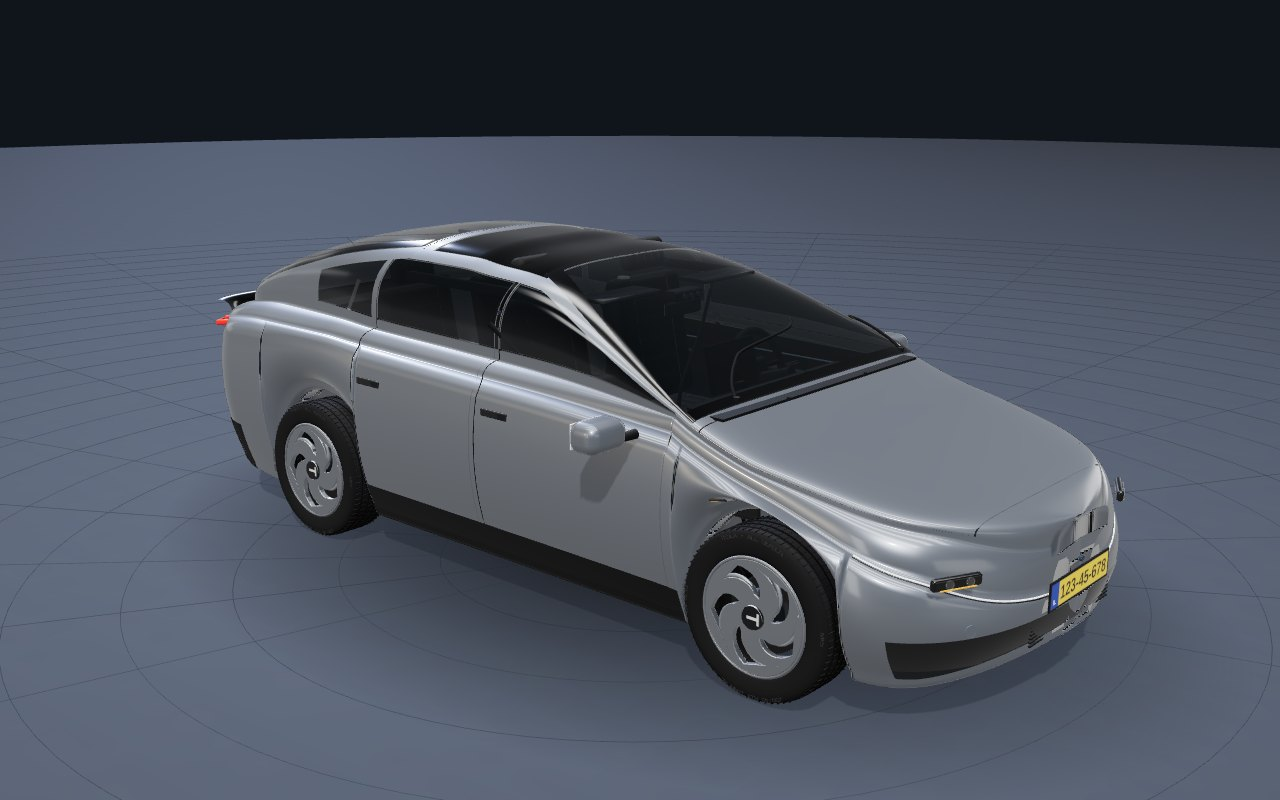
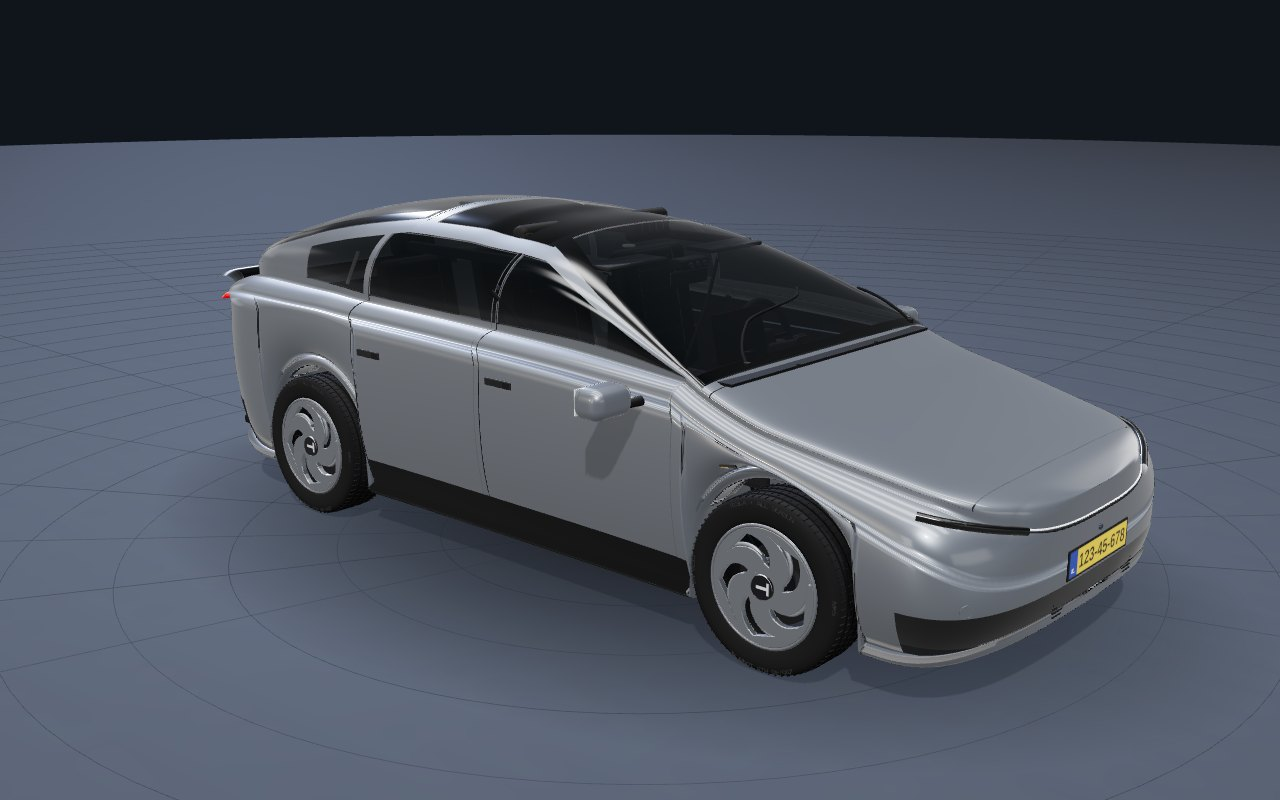
Rebuild Tesla Model Y nose and tail from front-view photo comparison
Rounded nose plan with dense tip columns, section insets that scale with
width (no fold at the nose tip), light bar and headlamp slits on section
lines under the hood lip, tapered tail, upper tail lamps on the liftgate.

Claude-Session: https://claude.ai/code/session_012NcPAY27Xn3SsHkDeQL88v

Changed region(s): [[0.1562, 0.2188, 0.9062, 0.9062], [0.0, 0.1562, 0.0625, 0.1875]]

diff --git a/daily-3d-library/models/003-tesla-model-y/index.html b/daily-3d-library/models/003-tesla-model-y/index.html
@@ -752,11 +752,15 @@ window.L3D_MODEL = {
       };
     };
     // plan view: rounded nose and tail (real corners sit ~0.26 m behind the tip at |z| = 0.6)
+    const NOSE = 0.42, NOSE_P = 3.2;
     const W = (x) => {
-      const rf = 0.6, rr = 0.30;
-      if (x > XF - rf) { const u = clamp((x - (XF - rf)) / rf); return HW * Math.pow(Math.max(0, 1 - Math.pow(u, 2.4)), 1 / 2.4); }
-      if (x < XR + rr) { const d = XR + rr - x; return HW - rr + Math.sqrt(Math.max(0, rr * rr - d * d)); }
-      return HW;
+      const rr = 0.5;
+      const haunch = 0.022 * (Math.exp(-Math.pow((x - AXR) / 0.55, 2)) + 0.6 * Math.exp(-Math.pow((x - AXF) / 0.5, 2)));
+      let w = HW;
+      // front: rounded plan (superellipse over the last 0.42 m; corners ~0.15 m behind the tip, measured on top/front photos)
+      if (x > XF - NOSE) { const u = clamp((x - (XF - NOSE)) / NOSE); w = HW * Math.pow(Math.max(0, 1 - Math.pow(u, NOSE_P)), 1 / NOSE_P); }
+      else if (x < XR + rr) { const u = clamp((XR + rr - x) / rr); w = HW - (HW - 0.68) * Math.pow(u, 2.6); }
+      return w + haunch * (w / HW);
     };
     // centre-line top: hood → windshield → roof → fastback → spoiler
     const YT = table([[XR, 1.11], [-2.36, 1.13], [-2.28, 1.23], [-2.10, 1.35], [-1.92, 1.426], [-1.745, 1.48], [-1.565, 1.53], [-1.307, 1.565], [-1.052, 1.58], [-0.801, 1.587], [-0.553, 1.586], [-0.37, 1.565], [-0.13, 1.545], [0.11, 1.50], [0.34, 1.42], [0.57, 1.32], [0.82, 1.2], [1.06, 1.08], [1.32, 0.99], [1.54, 0.945], [1.76, 0.9], [1.98, 0.855], [2.19, 0.81], [XF, 0.75]]);
@@ -778,14 +782,14 @@ window.L3D_MODEL = {
     const sec = (x, v) => {
       const s = v < 0 ? -1 : 1, a = Math.min(1, Math.abs(v));
       const w = W(x), yb = Yb(x), hh = Math.max(0.004, Yt(x) - yb), y0 = Y0(x), ya = YA(x);
-      const nf = smooth(1.3, XF, x), k = clamp(hh / 0.5), wg = w - lerp(0.09, 0.2, k) - 0.12 * nf - 0.14 * smooth(-0.9, -2.3, x), n = lerp(5.5, 2.8, k), drop = 0.07 + 0.1 * nf, ws = w - 0.075, wi = Math.min(W_IN, Math.max(0, w - 0.17));
+      const nf = smooth(1.3, XF, x), k = clamp(hh / 0.5), wg = w - Math.min(lerp(0.12, 0.16, k) + 0.1 * nf + 0.1 * smooth(-0.9, -2.3, x), 0.3 * w), n = lerp(5.5, 2.1, k), drop = 0.07 + 0.1 * nf, fi = clamp(w / 0.35), ws = w - 0.03 * fi, wi = Math.min(W_IN, Math.max(0, w - 0.15 * fi));
       let y, z;
       const seg = (a0, a1) => (a - a0) / (a1 - a0);
       if (a <= LV.glass) { const t = (a / LV.glass) * PI / 2; z = wg * Math.pow(Math.sin(t), 2 / n); y = yb + hh * Math.pow(Math.cos(t), 2 / n); }
       else if (a <= LV.shoulder) { const t = seg(LV.glass, LV.shoulder) * PI / 2; z = wg + (ws - wg) * Math.sin(t); y = yb - drop * (1 - Math.cos(t)); }
-      else if (a <= LV.side) { const t = seg(LV.shoulder, LV.side); y = lerp(yb - drop, ya + 0.05, t); z = w - 0.075 * Math.pow(Math.abs(t - 0.45) / 0.55, 2) - 0.035 * t * t; }
-      else if (a <= LV.cornerB) { const t = seg(LV.side, LV.cornerB) * PI / 2; z = w - 0.11 - 0.05 * (1 - Math.cos(t)); y = ya + 0.05 - 0.05 * Math.sin(t); }
-      else if (a <= LV.well) { const t = seg(LV.cornerB, LV.well); z = lerp(w - 0.16, wi, t); y = ya; }
+      else if (a <= LV.side) { const t = seg(LV.shoulder, LV.side); y = lerp(yb - drop, ya + 0.05, t); z = w - fi * (0.03 + 0.045 * Math.pow(Math.abs(t - 0.4) / 0.6, 2.2) + 0.05 * Math.pow(t, 3)); }
+      else if (a <= LV.cornerB) { const t = seg(LV.side, LV.cornerB) * PI / 2; z = w - fi * (0.08 + 0.06 * (1 - Math.cos(t))); y = ya + 0.05 - 0.05 * Math.sin(t); }
+      else if (a <= LV.well) { const t = seg(LV.cornerB, LV.well); z = lerp(w - 0.14 * fi, wi, t); y = ya; }
       else if (a <= LV.wellIn) { const t = seg(LV.well, LV.wellIn); z = wi; y = lerp(ya, y0, t); }
       else { const t = seg(LV.wellIn, 1); z = lerp(wi, 0, t); y = y0; }
       return V3(x, y, s * z);
@@ -816,7 +820,8 @@ window.L3D_MODEL = {
     const vs = samples(-1, 1, arcStep, [...aBreaks, ...aBreaks.map((b) => -b), 0]);
     const xBreaks = [...FD, 0.88, ...RD, ...QG, ...FR, LG, COWL, WS_TOP, WS_TOP - 0.04, ROOF_END, ROOF_END + 0.05, BL_END, AXF - ARCH_R, AXF + ARCH_R, AXR - ARCH_R, AXR + ARCH_R];
     const xStep = (x) => (x > XF - 0.6 || x < XR + 0.32 ? 0.016 : Math.abs(x - AXF) < ARCH_R + 0.02 || Math.abs(x - AXR) < ARCH_R + 0.02 ? 0.022 : (x < COWL && x > WS_TOP) || (x < LG && x > BL_END) ? 0.012 : 0.04);
-    const xs = samples(XR, XF, xStep, xBreaks);
+    const noseBreaks = Array.from({ length: 30 }, (_, k) => { const z = (k + 0.5) / 30; return XF - NOSE + NOSE * Math.pow(1 - Math.pow(z, NOSE_P), 1 / NOSE_P); }).filter((x) => x > XF - 0.1);
+    const xs = samples(XR, XF, xStep, [...xBreaks, ...noseBreaks]);
     // sub-ranges of the shared grids, so every patch is cut on exactly the same lines as its hole
     const subX = (a, b) => { const lo = Math.min(a, b), hi = Math.max(a, b); return [lo, ...xs.filter((x) => x > lo + 1e-4 && x < hi - 1e-4), hi]; };
     const subV = (a, b) => { const lo = Math.min(a, b), hi = Math.max(a, b); return [lo, ...vs.filter((v) => v > lo + 1e-4 && v < hi - 1e-4), hi]; };
@@ -856,8 +861,8 @@ window.L3D_MODEL = {
       const fxz = (z) => { let lo = XF - 0.5, hi = XF; for (let i = 0; i < 30; i++) { const m = (lo + hi) / 2; if (W(m) > Math.abs(z)) lo = m; else hi = m; } return lo; };
       // wide black lower intake and lip: bands of the nose surface that follow constant heights
       for (const s2 of [1, -1]) {
-        mesh(band(XF - 0.34, XF - 0.001, (x) => s2 * vAtY(x, 0.42, 1), (x) => s2 * vAtY(x, 0.28, 1), { offset: 0.004 }), GLOSSBLK, { parent: fr, name: 'lower intake' });
-        mesh(band(XF - 0.34, XF - 0.001, (x) => s2 * vAtY(x, 0.28, 1), (x) => s2 * vAtY(x, 0.235, 1), { offset: 0.004 }), M.plastic(0x2a2c30, 0.5), { parent: fr, name: 'lower lip' });
+        mesh(band(XF - 0.34, XF, (x) => s2 * vAtY(x, 0.42, 1), (x) => s2 * vAtY(x, 0.28, 1), { offset: 0.004 }), GLOSSBLK, { parent: fr, name: 'lower intake' });
+        mesh(band(XF - 0.34, XF, (x) => s2 * vAtY(x, 0.28, 1), (x) => s2 * vAtY(x, 0.235, 1), { offset: 0.004 }), M.plastic(0x2a2c30, 0.5), { parent: fr, name: 'lower lip' });
       }
       instances(new THREE.BoxGeometry(0.01, 0.006, 0.7), M.plastic(0x050506, 0.6), Array.from({ length: 7 }, (_, i) => ({ pos: [fxz(0.35) - 0.006, 0.3 + i * 0.016, 0] })), { parent: fr });
       // rear diffuser + reflectors
@@ -1011,23 +1016,35 @@ window.L3D_MODEL = {
     {
       const lights = sys('lights');
       const bar = part(lights, { he: 'פס אור קדמי לרוחב החזית', en: 'Front full-width light bar', mat: 'נורות LED מתחת לעדשה', desc: 'פס אור דק שחוצה את כל החזית — סימן ההיכר של ג׳וניפר. משמש כאור יום ומשנה צבע לכתום כאיתות בקצוות.' });
-      const barPts = []; for (let i = 0; i <= 48; i++) { const sd = i < 24 ? -1 : 1, u = sd < 0 ? i / 24 : (48 - i) / 24, x = lerp(XF - 0.5, XF - 0.002, u); barPts.push(onBody(x, sd * vAtY(x, Yb(x) - 0.05 - 0.02 * u, 1), 0.003)); }
+      // point on the nose at lateral position z along a fixed section line v (bisection along x; |z| shrinks toward the tip)
+      const lineAt = (z, v, d = 0.003) => {
+        const sd = z < 0 ? -1 : 1, az = Math.abs(z); let lo = XF - 0.6, hi = XF;
+        for (let i = 0; i < 40; i++) { const m = (lo + hi) / 2; if (Math.abs(sec(m, sd * v).z) > az) lo = m; else hi = m; }
+        return onBody(lo, sd * v, d);
+      };
+      // DRL bar right under the hood lip, across the full width (the lip is where the hood rolls into the face)
+      const V_LIP = A_G + 0.003;
+      const barPts = []; for (let i = 0; i <= 64; i++) { const z = -0.6 + (i / 64) * 1.2; barPts.push(lineAt(z, V_LIP, 0.004)); }
       put(G.tube(barPts, 0.0045, 96, 6), L.drl, bar);
-      put(G.tube(barPts.map((p) => p.clone().add(V3(-0.004, -0.008, 0))), 0.006, 96, 5), GLOSSBLK, bar);
+      put(G.tube(barPts.map((p) => p.clone().add(V3(0, -0.01, 0))), 0.006, 96, 5), GLOSSBLK, bar);
       for (const s of [1, -1]) {
-        const z = s * 0.72, hx = frontX(z), hy = Yb(hx) - 0.085, ang = Math.atan2(-(frontX(z + 0.01 * s) - hx), 0.01) * -s;
-        const hl = part(lights, { he: `פנס ראשי ${sideHe(s)}`, en: `Headlamp (${sideEn(s)})`, mat: 'פוליקרבונט + מטריצת LED', desc: 'פנס צר ונסתר בפינת הפגוש, מתחת לקצה פס האור, עם עדשת הקרנה ומטריצת LED שמכבה אזורים כדי לא לסנוור נהגים ממול.' });
-        const g = new THREE.Group(); g.position.set(hx, hy, z); g.rotation.y = s * Math.atan2(W(hx - 0.02) - W(hx), 0.02) * 0 - s * 0.45; hl.add(g);
-        put(G.soft(0.03, 0.05, 0.22, { r: 0.015, seg: 4 }), GLOSSBLK, g, [-0.008, 0, 0]);
-        for (const dz of [-0.05, 0.04]) { put(G.cyl(0.018, 0.018, 0.014, 20, 'x'), M.clearLens(), g, [0.006, 0, dz]); put(G.cyl(0.013, 0.013, 0.01, 18, 'x'), L.head, g, [0.0, 0, dz]); }
-        put(new THREE.BoxGeometry(0.006, 0.005, 0.16), L.amber, g, [0.008, -0.02, 0]);
-        void ang;
+        const hl = part(lights, { he: `פנס ראשי ${sideHe(s)}`, en: `Headlamp (${sideEn(s)})`, mat: 'פוליקרבונט + מטריצת LED', desc: 'פנס צר ונסתר בפינת הפגוש, מתחת לקצה פס האור: חריץ שחור דק שיורד כלפי הפינה, ובתוכו עדשת הקרנה ומטריצת LED שמכבה אזורים כדי לא לסנוור נהגים ממול.' });
+        // dark slit that drops toward the outer corner (inner end 0.65 m, outer end 0.60 m)
+        const vSl = (t) => V_LIP + 0.005 + 0.025 * t * t;
+        const slit = []; for (let k = 0; k <= 12; k++) { const t = k / 12, z = s * lerp(0.52, 0.86, t); slit.push(lineAt(z, vSl(t), 0.006)); }
+        put(G.tube(slit, 0.017, 24, 8), GLOSSBLK, hl, null, null, { name: 'slit' });
+        put(G.tube(slit.slice(5), 0.004, 16, 5).translate(0, 0.006, 0), L.head, hl, null, null, { name: 'LED strip' });
+        for (const t of [0.72, 0.86]) { const p = lineAt(s * lerp(0.52, 0.86, t), vSl(t), 0.012); put(G.sphere(0.011, 12, 8), M.clearLens(), hl, p.toArray()); }
+        put(G.tube(slit.slice(2, 7).map((p) => p.clone().add(V3(0, -0.012, 0))), 0.003, 12, 5), L.amber, hl, null, null, { name: 'turn strip' });
         // tail lamp (body corner, C-shape) + reverse lamp
         const tz = s * 0.78, tl = part(lights, { he: `פנס אחורי ${sideHe(s)}`, en: `Tail lamp (${sideEn(s)})`, mat: 'אקריליק אדום + LED', desc: 'פנס אחורי בצורת C עם אור ״מרחף״ שנוצר מהשתקפות פנימית. משתלב בפס האחורי.' });
-        for (let k = 0; k < 3; k++) { const zz = s * (0.66 + k * 0.08); const x = rearX(zz); put(G.box(0.03, 0.045 - k * 0.008, 0.085, 0.01), L.tail, tl, [x + 0.006, 1.02 - k * 0.006, zz], [0, -s * (k * 0.35), 0]); }
-        put(G.box(0.02, 0.012, 0.22, 0.004), L.brake, tl, [rearX(s * 0.72) + 0.01, 0.99, s * 0.72], [0, -s * 0.3, 0]);
+        // upper lamp sits in the liftgate's outer corner, so it rides with the gate
+        const tu = part(lights, { he: `פנס אחורי עליון ${sideHe(s)}`, en: `Upper tail lamp (${sideEn(s)})`, mat: 'אקריליק אדום + LED', desc: 'החלק העליון של הפנס האחורי, בפינת הדלת האחורית מתחת לספוילר. נפתח יחד עם הדלת, ולכן גם כשהיא פתוחה רואים את הפנסים הנמוכים בפגוש.' });
+        ctx.gate.add(tu); tu.userData.sysOverride = 'lights'; tu.position.set(-ctx.gate.position.x, -ctx.gate.position.y, 0);
+        for (let k = 0; k < 3; k++) { const zz = s * (0.6 + k * 0.07); const x = rearX(zz); put(G.box(0.03, 0.045 - k * 0.008, 0.085, 0.01), L.tail, tu, [x + 0.006, 1.02 - k * 0.006, zz], [0, -s * (k * 0.35), 0]); }
+        put(G.box(0.02, 0.012, 0.22, 0.004), L.brake, tu, [rearX(s * 0.66) + 0.01, 0.99, s * 0.66], [0, -s * 0.3, 0]);
         put(G.box(0.02, 0.035, 0.1, 0.01), L.rev, tl, [XR + 0.004, 0.47, s * 0.58]);
-        put(G.box(0.012, 0.02, 0.1, 0.006), M.lens(0xb01010, 0.8), tl, [XR + 0.004, 0.36, s * 0.7]);
+        put(G.box(0.012, 0.02, 0.1, 0.006), M.lens(0xb01010, 0.8), tl, [rearX(s * 0.6) + 0.004, 0.36, s * 0.6]);
       }
       // rear light bar on the liftgate (rides with the gate)
       const rb = part(lights, { he: 'פס אור אחורי', en: 'Rear light bar', mat: 'אקריליק אדום + LED', desc: 'פס אדום דק לרוחב הדלת האחורית שמחבר בין שני הפנסים.' });

diff --git a/daily-3d-library/models/003-tesla-model-y/model.js b/daily-3d-library/models/003-tesla-model-y/model.js
@@ -49,11 +49,15 @@ window.L3D_MODEL = {
       };
     };
     // plan view: rounded nose and tail (real corners sit ~0.26 m behind the tip at |z| = 0.6)
+    const NOSE = 0.42, NOSE_P = 3.2;
     const W = (x) => {
-      const rf = 0.6, rr = 0.30;
-      if (x > XF - rf) { const u = clamp((x - (XF - rf)) / rf); return HW * Math.pow(Math.max(0, 1 - Math.pow(u, 2.4)), 1 / 2.4); }
-      if (x < XR + rr) { const d = XR + rr - x; return HW - rr + Math.sqrt(Math.max(0, rr * rr - d * d)); }
-      return HW;
+      const rr = 0.5;
+      const haunch = 0.022 * (Math.exp(-Math.pow((x - AXR) / 0.55, 2)) + 0.6 * Math.exp(-Math.pow((x - AXF) / 0.5, 2)));
+      let w = HW;
+      // front: rounded plan (superellipse over the last 0.42 m; corners ~0.15 m behind the tip, measured on top/front photos)
+      if (x > XF - NOSE) { const u = clamp((x - (XF - NOSE)) / NOSE); w = HW * Math.pow(Math.max(0, 1 - Math.pow(u, NOSE_P)), 1 / NOSE_P); }
+      else if (x < XR + rr) { const u = clamp((XR + rr - x) / rr); w = HW - (HW - 0.68) * Math.pow(u, 2.6); }
+      return w + haunch * (w / HW);
     };
     // centre-line top: hood → windshield → roof → fastback → spoiler
     const YT = table([[XR, 1.11], [-2.36, 1.13], [-2.28, 1.23], [-2.10, 1.35], [-1.92, 1.426], [-1.745, 1.48], [-1.565, 1.53], [-1.307, 1.565], [-1.052, 1.58], [-0.801, 1.587], [-0.553, 1.586], [-0.37, 1.565], [-0.13, 1.545], [0.11, 1.50], [0.34, 1.42], [0.57, 1.32], [0.82, 1.2], [1.06, 1.08], [1.32, 0.99], [1.54, 0.945], [1.76, 0.9], [1.98, 0.855], [2.19, 0.81], [XF, 0.75]]);
@@ -75,14 +79,14 @@ window.L3D_MODEL = {
     const sec = (x, v) => {
       const s = v < 0 ? -1 : 1, a = Math.min(1, Math.abs(v));
       const w = W(x), yb = Yb(x), hh = Math.max(0.004, Yt(x) - yb), y0 = Y0(x), ya = YA(x);
-      const nf = smooth(1.3, XF, x), k = clamp(hh / 0.5), wg = w - lerp(0.09, 0.2, k) - 0.12 * nf - 0.14 * smooth(-0.9, -2.3, x), n = lerp(5.5, 2.8, k), drop = 0.07 + 0.1 * nf, ws = w - 0.075, wi = Math.min(W_IN, Math.max(0, w - 0.17));
+      const nf = smooth(1.3, XF, x), k = clamp(hh / 0.5), wg = w - Math.min(lerp(0.12, 0.16, k) + 0.1 * nf + 0.1 * smooth(-0.9, -2.3, x), 0.3 * w), n = lerp(5.5, 2.1, k), drop = 0.07 + 0.1 * nf, fi = clamp(w / 0.35), ws = w - 0.03 * fi, wi = Math.min(W_IN, Math.max(0, w - 0.15 * fi));
       let y, z;
       const seg = (a0, a1) => (a - a0) / (a1 - a0);
       if (a <= LV.glass) { const t = (a / LV.glass) * PI / 2; z = wg * Math.pow(Math.sin(t), 2 / n); y = yb + hh * Math.pow(Math.cos(t), 2 / n); }
       else if (a <= LV.shoulder) { const t = seg(LV.glass, LV.shoulder) * PI / 2; z = wg + (ws - wg) * Math.sin(t); y = yb - drop * (1 - Math.cos(t)); }
-      else if (a <= LV.side) { const t = seg(LV.shoulder, LV.side); y = lerp(yb - drop, ya + 0.05, t); z = w - 0.075 * Math.pow(Math.abs(t - 0.45) / 0.55, 2) - 0.035 * t * t; }
-      else if (a <= LV.cornerB) { const t = seg(LV.side, LV.cornerB) * PI / 2; z = w - 0.11 - 0.05 * (1 - Math.cos(t)); y = ya + 0.05 - 0.05 * Math.sin(t); }
-      else if (a <= LV.well) { const t = seg(LV.cornerB, LV.well); z = lerp(w - 0.16, wi, t); y = ya; }
+      else if (a <= LV.side) { const t = seg(LV.shoulder, LV.side); y = lerp(yb - drop, ya + 0.05, t); z = w - fi * (0.03 + 0.045 * Math.pow(Math.abs(t - 0.4) / 0.6, 2.2) + 0.05 * Math.pow(t, 3)); }
+      else if (a <= LV.cornerB) { const t = seg(LV.side, LV.cornerB) * PI / 2; z = w - fi * (0.08 + 0.06 * (1 - Math.cos(t))); y = ya + 0.05 - 0.05 * Math.sin(t); }
+      else if (a <= LV.well) { const t = seg(LV.cornerB, LV.well); z = lerp(w - 0.14 * fi, wi, t); y = ya; }
       else if (a <= LV.wellIn) { const t = seg(LV.well, LV.wellIn); z = wi; y = lerp(ya, y0, t); }
       else { const t = seg(LV.wellIn, 1); z = lerp(wi, 0, t); y = y0; }
       return V3(x, y, s * z);
@@ -113,7 +117,8 @@ window.L3D_MODEL = {
     const vs = samples(-1, 1, arcStep, [...aBreaks, ...aBreaks.map((b) => -b), 0]);
     const xBreaks = [...FD, 0.88, ...RD, ...QG, ...FR, LG, COWL, WS_TOP, WS_TOP - 0.04, ROOF_END, ROOF_END + 0.05, BL_END, AXF - ARCH_R, AXF + ARCH_R, AXR - ARCH_R, AXR + ARCH_R];
     const xStep = (x) => (x > XF - 0.6 || x < XR + 0.32 ? 0.016 : Math.abs(x - AXF) < ARCH_R + 0.02 || Math.abs(x - AXR) < ARCH_R + 0.02 ? 0.022 : (x < COWL && x > WS_TOP) || (x < LG && x > BL_END) ? 0.012 : 0.04);
-    const xs = samples(XR, XF, xStep, xBreaks);
+    const noseBreaks = Array.from({ length: 30 }, (_, k) => { const z = (k + 0.5) / 30; return XF - NOSE + NOSE * Math.pow(1 - Math.pow(z, NOSE_P), 1 / NOSE_P); }).filter((x) => x > XF - 0.1);
+    const xs = samples(XR, XF, xStep, [...xBreaks, ...noseBreaks]);
     // sub-ranges of the shared grids, so every patch is cut on exactly the same lines as its hole
     const subX = (a, b) => { const lo = Math.min(a, b), hi = Math.max(a, b); return [lo, ...xs.filter((x) => x > lo + 1e-4 && x < hi - 1e-4), hi]; };
     const subV = (a, b) => { const lo = Math.min(a, b), hi = Math.max(a, b); return [lo, ...vs.filter((v) => v > lo + 1e-4 && v < hi - 1e-4), hi]; };
@@ -153,8 +158,8 @@ window.L3D_MODEL = {
       const fxz = (z) => { let lo = XF - 0.5, hi = XF; for (let i = 0; i < 30; i++) { const m = (lo + hi) / 2; if (W(m) > Math.abs(z)) lo = m; else hi = m; } return lo; };
       // wide black lower intake and lip: bands of the nose surface that follow constant heights
       for (const s2 of [1, -1]) {
-        mesh(band(XF - 0.34, XF - 0.001, (x) => s2 * vAtY(x, 0.42, 1), (x) => s2 * vAtY(x, 0.28, 1), { offset: 0.004 }), GLOSSBLK, { parent: fr, name: 'lower intake' });
-        mesh(band(XF - 0.34, XF - 0.001, (x) => s2 * vAtY(x, 0.28, 1), (x) => s2 * vAtY(x, 0.235, 1), { offset: 0.004 }), M.plastic(0x2a2c30, 0.5), { parent: fr, name: 'lower lip' });
+        mesh(band(XF - 0.34, XF, (x) => s2 * vAtY(x, 0.42, 1), (x) => s2 * vAtY(x, 0.28, 1), { offset: 0.004 }), GLOSSBLK, { parent: fr, name: 'lower intake' });
+        mesh(band(XF - 0.34, XF, (x) => s2 * vAtY(x, 0.28, 1), (x) => s2 * vAtY(x, 0.235, 1), { offset: 0.004 }), M.plastic(0x2a2c30, 0.5), { parent: fr, name: 'lower lip' });
       }
       instances(new THREE.BoxGeometry(0.01, 0.006, 0.7), M.plastic(0x050506, 0.6), Array.from({ length: 7 }, (_, i) => ({ pos: [fxz(0.35) - 0.006, 0.3 + i * 0.016, 0] })), { parent: fr });
       // rear diffuser + reflectors
@@ -308,23 +313,35 @@ window.L3D_MODEL = {
     {
       const lights = sys('lights');
       const bar = part(lights, { he: 'פס אור קדמי לרוחב החזית', en: 'Front full-width light bar', mat: 'נורות LED מתחת לעדשה', desc: 'פס אור דק שחוצה את כל החזית — סימן ההיכר של ג׳וניפר. משמש כאור יום ומשנה צבע לכתום כאיתות בקצוות.' });
-      const barPts = []; for (let i = 0; i <= 48; i++) { const sd = i < 24 ? -1 : 1, u = sd < 0 ? i / 24 : (48 - i) / 24, x = lerp(XF - 0.5, XF - 0.002, u); barPts.push(onBody(x, sd * vAtY(x, Yb(x) - 0.05 - 0.02 * u, 1), 0.003)); }
+      // point on the nose at lateral position z along a fixed section line v (bisection along x; |z| shrinks toward the tip)
+      const lineAt = (z, v, d = 0.003) => {
+        const sd = z < 0 ? -1 : 1, az = Math.abs(z); let lo = XF - 0.6, hi = XF;
+        for (let i = 0; i < 40; i++) { const m = (lo + hi) / 2; if (Math.abs(sec(m, sd * v).z) > az) lo = m; else hi = m; }
+        return onBody(lo, sd * v, d);
+      };
+      // DRL bar right under the hood lip, across the full width (the lip is where the hood rolls into the face)
+      const V_LIP = A_G + 0.003;
+      const barPts = []; for (let i = 0; i <= 64; i++) { const z = -0.6 + (i / 64) * 1.2; barPts.push(lineAt(z, V_LIP, 0.004)); }
       put(G.tube(barPts, 0.0045, 96, 6), L.drl, bar);
-      put(G.tube(barPts.map((p) => p.clone().add(V3(-0.004, -0.008, 0))), 0.006, 96, 5), GLOSSBLK, bar);
+      put(G.tube(barPts.map((p) => p.clone().add(V3(0, -0.01, 0))), 0.006, 96, 5), GLOSSBLK, bar);
       for (const s of [1, -1]) {
-        const z = s * 0.72, hx = frontX(z), hy = Yb(hx) - 0.085, ang = Math.atan2(-(frontX(z + 0.01 * s) - hx), 0.01) * -s;
-        const hl = part(lights, { he: `פנס ראשי ${sideHe(s)}`, en: `Headlamp (${sideEn(s)})`, mat: 'פוליקרבונט + מטריצת LED', desc: 'פנס צר ונסתר בפינת הפגוש, מתחת לקצה פס האור, עם עדשת הקרנה ומטריצת LED שמכבה אזורים כדי לא לסנוור נהגים ממול.' });
-        const g = new THREE.Group(); g.position.set(hx, hy, z); g.rotation.y = s * Math.atan2(W(hx - 0.02) - W(hx), 0.02) * 0 - s * 0.45; hl.add(g);
-        put(G.soft(0.03, 0.05, 0.22, { r: 0.015, seg: 4 }), GLOSSBLK, g, [-0.008, 0, 0]);
-        for (const dz of [-0.05, 0.04]) { put(G.cyl(0.018, 0.018, 0.014, 20, 'x'), M.clearLens(), g, [0.006, 0, dz]); put(G.cyl(0.013, 0.013, 0.01, 18, 'x'), L.head, g, [0.0, 0, dz]); }
-        put(new THREE.BoxGeometry(0.006, 0.005, 0.16), L.amber, g, [0.008, -0.02, 0]);
-        void ang;
+        const hl = part(lights, { he: `פנס ראשי ${sideHe(s)}`, en: `Headlamp (${sideEn(s)})`, mat: 'פוליקרבונט + מטריצת LED', desc: 'פנס צר ונסתר בפינת הפגוש, מתחת לקצה פס האור: חריץ שחור דק שיורד כלפי הפינה, ובתוכו עדשת הקרנה ומטריצת LED שמכבה אזורים כדי לא לסנוור נהגים ממול.' });
+        // dark slit that drops toward the outer corner (inner end 0.65 m, outer end 0.60 m)
+        const vSl = (t) => V_LIP + 0.005 + 0.025 * t * t;
+        const slit = []; for (let k = 0; k <= 12; k++) { const t = k / 12, z = s * lerp(0.52, 0.86, t); slit.push(lineAt(z, vSl(t), 0.006)); }
+        put(G.tube(slit, 0.017, 24, 8), GLOSSBLK, hl, null, null, { name: 'slit' });
+        put(G.tube(slit.slice(5), 0.004, 16, 5).translate(0, 0.006, 0), L.head, hl, null, null, { name: 'LED strip' });
+        for (const t of [0.72, 0.86]) { const p = lineAt(s * lerp(0.52, 0.86, t), vSl(t), 0.012); put(G.sphere(0.011, 12, 8), M.clearLens(), hl, p.toArray()); }
+        put(G.tube(slit.slice(2, 7).map((p) => p.clone().add(V3(0, -0.012, 0))), 0.003, 12, 5), L.amber, hl, null, null, { name: 'turn strip' });
         // tail lamp (body corner, C-shape) + reverse lamp
         const tz = s * 0.78, tl = part(lights, { he: `פנס אחורי ${sideHe(s)}`, en: `Tail lamp (${sideEn(s)})`, mat: 'אקריליק אדום + LED', desc: 'פנס אחורי בצורת C עם אור ״מרחף״ שנוצר מהשתקפות פנימית. משתלב בפס האחורי.' });
-        for (let k = 0; k < 3; k++) { const zz = s * (0.66 + k * 0.08); const x = rearX(zz); put(G.box(0.03, 0.045 - k * 0.008, 0.085, 0.01), L.tail, tl, [x + 0.006, 1.02 - k * 0.006, zz], [0, -s * (k * 0.35), 0]); }
-        put(G.box(0.02, 0.012, 0.22, 0.004), L.brake, tl, [rearX(s * 0.72) + 0.01, 0.99, s * 0.72], [0, -s * 0.3, 0]);
+        // upper lamp sits in the liftgate's outer corner, so it rides with the gate
+        const tu = part(lights, { he: `פנס אחורי עליון ${sideHe(s)}`, en: `Upper tail lamp (${sideEn(s)})`, mat: 'אקריליק אדום + LED', desc: 'החלק העליון של הפנס האחורי, בפינת הדלת האחורית מתחת לספוילר. נפתח יחד עם הדלת, ולכן גם כשהיא פתוחה רואים את הפנסים הנמוכים בפגוש.' });
+        ctx.gate.add(tu); tu.userData.sysOverride = 'lights'; tu.position.set(-ctx.gate.position.x, -ctx.gate.position.y, 0);
+        for (let k = 0; k < 3; k++) { const zz = s * (0.6 + k * 0.07); const x = rearX(zz); put(G.box(0.03, 0.045 - k * 0.008, 0.085, 0.01), L.tail, tu, [x + 0.006, 1.02 - k * 0.006, zz], [0, -s * (k * 0.35), 0]); }
+        put(G.box(0.02, 0.012, 0.22, 0.004), L.brake, tu, [rearX(s * 0.66) + 0.01, 0.99, s * 0.66], [0, -s * 0.3, 0]);
         put(G.box(0.02, 0.035, 0.1, 0.01), L.rev, tl, [XR + 0.004, 0.47, s * 0.58]);
-        put(G.box(0.012, 0.02, 0.1, 0.006), M.lens(0xb01010, 0.8), tl, [XR + 0.004, 0.36, s * 0.7]);
+        put(G.box(0.012, 0.02, 0.1, 0.006), M.lens(0xb01010, 0.8), tl, [rearX(s * 0.6) + 0.004, 0.36, s * 0.6]);
       }
       // rear light bar on the liftgate (rides with the gate)
       const rb = part(lights, { he: 'פס אור אחורי', en: 'Rear light bar', mat: 'אקריליק אדום + LED', desc: 'פס אדום דק לרוחב הדלת האחורית שמחבר בין שני הפנסים.' });

diff --git a/daily-3d-library/index.html b/daily-3d-library/index.html
@@ -63,7 +63,7 @@
   <footer>כל דגם הוא קובץ HTML אחד שנפתח ישר בדפדפן (צריך אינטרנט בשביל three.js). בכל דגם: פירוק לחלקים, חתך, רנטגן, מבטים, ופתיחת דלתות ומכסים. הקוד: <code>daily-3d-library/</code> במאגר.</footer>
 </main>
 <script>
-  const CATALOG = [{"id": "003-tesla-model-y", "number": 3, "date": "2026-10-03", "dateHe": "3 באוקטובר 2026", "category": "רכבים", "title": "טסלה מודל Y", "titleEn": "Tesla Model Y (Juniper, 2025)", "subtitle": "רכב הפנאי החשמלי הנמכר בעולם · דור ״ג׳וניפר״ 2025 עם פס האור לרוחב החזית", "description": "דגם תלת־ממד פרוצדורלי ומפורט של טסלה מודל Y החדשה: מרכב קרוסאובר עם גג זכוכית מלא, פסי אור לרוחב החזית והאחור, תא מטען קדמי במקום מנוע, סוללה שטוחה ברצפה עם מאות תאים, שני מנועים חשמליים, מתלים, בלמים, מצלמות האוטופיילוט ותא נוסעים עם מסך מרכזי. אפשר לפתוח דלתות, תא מטען קדמי ואחורי, את דלתית הטעינה ולקפל מושבים.", "page": "models/003-tesla-model-y/index.html", "thumb": "models/003-tesla-model-y/thumb.jpg", "stats": {"parts": 154, "meshes": 481, "triangles": 420677, "buildMs": 896}}, {"id": "002-merkava-mk4m", "number": 2, "date": "2026-10-03", "dateHe": "3 באוקטובר 2026", "category": "רכבים צבאיים", "title": "טנק מרכבה סימן 4M", "titleEn": "Merkava Mk 4M (IDF main battle tank)", "subtitle": "הטנק הראשי של צה״ל · מנוע מלפנים, דלת אחורית ומערכת ההגנה האקטיבית ״מעיל רוח״", "description": "דגם תלת־ממד פרוצדורלי ומפורט של טנק המרכבה סימן 4M: גוף עם מנוע ותמסורת בחזית, צריח טריז ארוך עם שריון מודולרי ווילון שרשראות, תותח חלק 120 מ״מ, מערכת Trophy (״מעיל רוח״) עם מכ״מים ומשגרים, זחלים שרצים בפועל, מתלי קפיצים חיצוניים ותא צוות עם תחמושת ודלת אחורית. אפשר לסובב צריח, להגביה תותח, לפתוח צוהרים ולהרים חצאיות כדי לראות את המתלים.", "page": "models/002-merkava-mk4m/index.html", "thumb": "models/002-merkava-mk4m/thumb.jpg", "stats": {"parts": 258, "meshes": 1225, "triangles": 400316, "buildMs": 614}}, {"id": "001-cadillac-one-the-beast", "number": 1, "date": "2026-10-01", "dateHe": "1 באוקטובר 2026", "category": "רכבים", "title": "קדילק וואן — ״החיה״", "titleEn": "Cadillac One — “The Beast” (2018)", "subtitle": "רכב השרד המשוריין של נשיא ארצות הברית · הדור של 2018", "description": "דגם תלת־ממד פרוצדורלי ומפורט של רכב השרד הנשיאותי האמריקאי: מרכב, דלתות שריון בעובי 20 ס״מ, זכוכית רב־שכבתית, מנוע דיזל V8, שלדת משאית, תא הנשיא ומערכות האבטחה. אפשר לפרק, לחתוך, לראות ברנטגן ולפתוח דלתות.", "page": "models/001-cadillac-one-the-beast/index.html", "thumb": "models/001-cadillac-one-the-beast/thumb.jpg", "stats": {"parts": 246, "meshes": 1151, "triangles": 612682, "buildMs": 1208}}];
+  const CATALOG = [{"id": "003-tesla-model-y", "number": 3, "date": "2026-10-03", "dateHe": "3 באוקטובר 2026", "category": "רכבים", "title": "טסלה מודל Y", "titleEn": "Tesla Model Y (Juniper, 2025)", "subtitle": "רכב הפנאי החשמלי הנמכר בעולם · דור ״ג׳וניפר״ 2025 עם פס האור לרוחב החזית", "description": "דגם תלת־ממד פרוצדורלי ומפורט של טסלה מודל Y החדשה: מרכב קרוסאובר עם גג זכוכית מלא, פסי אור לרוחב החזית והאחור, תא מטען קדמי במקום מנוע, סוללה שטוחה ברצפה עם מאות תאים, שני מנועים חשמליים, מתלים, בלמים, מצלמות האוטופיילוט ותא נוסעים עם מסך מרכזי. אפשר לפתוח דלתות, תא מטען קדמי ואחורי, את דלתית הטעינה ולקפל מושבים.", "page": "models/003-tesla-model-y/index.html", "thumb": "models/003-tesla-model-y/thumb.jpg", "stats": {"parts": 156, "meshes": 479, "triangles": 427465, "buildMs": 859}}, {"id": "002-merkava-mk4m", "number": 2, "date": "2026-10-03", "dateHe": "3 באוקטובר 2026", "category": "רכבים צבאיים", "title": "טנק מרכבה סימן 4M", "titleEn": "Merkava Mk 4M (IDF main battle tank)", "subtitle": "הטנק הראשי של צה״ל · מנוע מלפנים, דלת אחורית ומערכת ההגנה האקטיבית ״מעיל רוח״", "description": "דגם תלת־ממד פרוצדורלי ומפורט של טנק המרכבה סימן 4M: גוף עם מנוע ותמסורת בחזית, צריח טריז ארוך עם שריון מודולרי ווילון שרשראות, תותח חלק 120 מ״מ, מערכת Trophy (״מעיל רוח״) עם מכ״מים ומשגרים, זחלים שרצים בפועל, מתלי קפיצים חיצוניים ותא צוות עם תחמושת ודלת אחורית. אפשר לסובב צריח, להגביה תותח, לפתוח צוהרים ולהרים חצאיות כדי לראות את המתלים.", "page": "models/002-merkava-mk4m/index.html", "thumb": "models/002-merkava-mk4m/thumb.jpg", "stats": {"parts": 258, "meshes": 1225, "triangles": 400316, "buildMs": 605}}, {"id": "001-cadillac-one-the-beast", "number": 1, "date": "2026-10-01", "dateHe": "1 באוקטובר 2026", "category": "רכבים", "title": "קדילק וואן — ״החיה״", "titleEn": "Cadillac One — “The Beast” (2018)", "subtitle": "רכב השרד המשוריין של נשיא ארצות הברית · הדור של 2018", "description": "דגם תלת־ממד פרוצדורלי ומפורט של רכב השרד הנשיאותי האמריקאי: מרכב, דלתות שריון בעובי 20 ס״מ, זכוכית רב־שכבתית, מנוע דיזל V8, שלדת משאית, תא הנשיא ומערכות האבטחה. אפשר לפרק, לחתוך, לראות ברנטגן ולפתוח דלתות.", "page": "models/001-cadillac-one-the-beast/index.html", "thumb": "models/001-cadillac-one-the-beast/thumb.jpg", "stats": {"parts": 246, "meshes": 1151, "triangles": 612682, "buildMs": 1097}}];
   const QUEUE = [{"slug": "ford-model-t", "he": "פורד מודל T", "en": "Ford Model T (1908)"}, {"slug": "volkswagen-beetle", "he": "פולקסווגן חיפושית", "en": "Volkswagen Beetle (1963)"}, {"slug": "ferrari-f40", "he": "פרארי F40", "en": "Ferrari F40 (1987)"}, {"slug": "mercedes-300sl-gullwing", "he": "מרצדס 300SL ״כנפי שחף״", "en": "Mercedes-Benz 300 SL Gullwing (1954)"}, {"slug": "jeep-willys-mb", "he": "ג׳יפ וויליס", "en": "Willys MB Jeep (1942)"}, {"slug": "lamborghini-countach", "he": "למבורגיני קונטאש", "en": "Lamborghini Countach LP400 (1974)"}];
   const esc = (s) => String(s ?? '').replace(/[&<>"]/g, (c) => ({ '&': '&amp;', '<': '&lt;', '>': '&gt;', '"': '&quot;' }[c]));
   document.getElementById('n').textContent = CATALOG.length;

diff --git a/wiki/daily-3d-library.md b/wiki/daily-3d-library.md
@@ -62,3 +62,4 @@ A library that grows by one procedurally-modelled object a day, starting with ca
 - **2026-10-03: photo comparison is now a required step (user request).** BUILD_GUIDE §6b + skill: download Commons photos (`tools/refs.py fetch`), shoot the model from matching angles (`tools/shot.cjs <id> <outdir> name '{json}'`), compare side by side (`tools/refs.py pair`), part by part: silhouette → masses → each system → colour. Photos stay out of the repo; the README lists which files were used. Commons API works from the sandbox via curl; `pip install pillow` is needed for sheets/pairs.
   - First run on #003 Tesla: found a flat sedan roof, a boxy nose with the light bar too low, missing black ducktail spoiler and black lower bumper, black wheels (real: silver), oversized arches, too-light paint. All fixed; the nose is still more upright than the real car.
 - **2026-10-03, #003 round 2 (user: "go over every centimetre"):** added camera matching + overlay (`tools/camsolve.py`, `tools/overlay.py`, `shot.cjs` `bare` + `VW/VH`). Measured the real centre-line profile and beltline by back-projecting photo pixels and replaced guessed curves with point tables (`table()` = monotone cubic). Pitfalls: (1) Wikimedia rate-limits bursts — `refs.py` now backs off; (2) changing the plan-view width shape without moving interior parts made the cargo floor and subwoofer poke out — reverted; (3) section floor (`W_IN`) must shrink with `W(x)` at the nose or it sticks out like a splitter; (4) y-based `skip` on grid patches gives stair-steps — use `band()` with `vAtY()` limits. Honest status: silhouette now within a few cm in the side photo, but the nose plan/face and rear haunches are still far from the real car; a single parametric section is the limit, next step is lofting from several measured cross-sections.
+- **2026-10-04, #003 round 3 (front + rear from photos):** front-view comparison against a head-on Juniper photo. Rounded superellipse nose plan with extra x-columns at the tip (`noseBreaks`, uniform steps in half-width). Lights sit on fixed section lines just under the hood lip (`lineAt(z, v)` = bisection on x at constant v), not on height-based `vAtY` (it clamps above the shoulder). Tail tapered to a 0.68 m half-width; the upper tail lamps moved onto the liftgate. Now 156 parts, ~427K triangles. Pitfalls: (1) fixed insets (`w - 0.03`, `w - 0.14`, ...) make the section cross z = 0 where `W(x)` gets small, which shows as grey patches and a streak at the nose tip, so scale insets with `clamp(w / 0.35)`; (2) a forward rake as `x - f(y)` folds the surface; (3) a light line at the frunk-lid edge v hides under the lid; (4) raycasting from a pixel is the fastest way to identify what a stray patch in a shot is. Still open: the face lacks sharp bumper corners, and the rear glass/liftgate is too wide.

diff --git a/daily-3d-library/models/003-tesla-model-y/README.md b/daily-3d-library/models/003-tesla-model-y/README.md
@@ -38,7 +38,9 @@ Compared against 19 photos of a Quicksilver Model Y Juniper (Dual Motor First Ed
 
 Round 2 (camera-matched overlay): the camera of photo (10) was solved from the wheel rims, the model was rendered with the same camera and its outline drawn over the photo. The centre-line profile and the beltline are now tables of points measured off that photo (roof peaks 1.59 m at x ≈ −0.8, windshield base at x ≈ 1.06, hood falls to 0.75 m at the nose), the body section is barrel-shaped with a strong shoulder and tumblehome, the greenhouse narrows toward the tail, the lower intake is a full-width band, and the nose underside no longer sticks out.
 
-Still clearly different (honest list): the nose is too narrow and pointed in plan view and the front face is not sculpted like the real one (no defined bumper corners); the rear window and liftgate are too wide and flat and the real rear haunches over the wheels are missing; the hood has a visible crease where the frunk lid meets the nose; the side surfaces lack the real door-panel feature lines; wheel-arch liners are not black. A single parametric section limits how close the body can get — the next step would be lofting the body from several measured cross-sections (front, B-pillar, rear axle, tail) taken from front/rear photos.
+Round 3 (front photo + overlay): the front view (Commons, dllu, Juniper head-on) showed a wide, rounded front face with the light bar on the hood lip, slit headlamps at its ends, and a greenhouse much narrower than the belt. Changes: rounded superellipse nose plan (over the last 0.42 m) with extra grid columns at the tip; the section's insets now shrink with the width so the halves no longer cross at the tip (that crossing caused the grey patches and the vertical streak on the nose); stronger tumblehome; the light bar and the headlamp slits are placed along fixed section lines just under the hood lip (`lineAt`), which also lines the headlamps up with the side photo overlay; narrower, tapered tail (0.68 m half-width at the tip) so the rear haunches read; the upper tail lamps now ride on the liftgate. A tried 16 cm forward rake of the face was dropped because it folded the surface.
+
+Still clearly different (honest list): the face below the light bar is smoother and rounder than the real one (no sharp bumper corners or vertical corner inlets); the rear window and liftgate are still too wide and flat; the side surfaces lack the real door-panel feature lines; wheel-arch liners are not black.
 
 ## Known simplifications / open
 

diff --git a/daily-3d-library/README.md b/daily-3d-library/README.md
@@ -12,7 +12,7 @@ One object a day, modelled procedurally in Three.js down to the fasteners, as a 
 |---|---|---|---|---|
 | 001 | [Cadillac One “The Beast” (2018)](models/001-cadillac-one-the-beast/) — רכב השרד של נשיא ארה״ב | 2026-10-01 | 246 | ~610K |
 | 002 | [Merkava Mk 4M (IDF main battle tank)](models/002-merkava-mk4m/) — טנק מרכבה סימן 4M | 2026-10-03 | 258 | ~400K |
-| 003 | [Tesla Model Y (Juniper, 2025)](models/003-tesla-model-y/) — טסלה מודל Y | 2026-10-03 | 154 | ~415K |
+| 003 | [Tesla Model Y (Juniper, 2025)](models/003-tesla-model-y/) — טסלה מודל Y | 2026-10-03 | 156 | ~427K |
 
 The queue of upcoming objects is [`queue.json`](queue.json). Reorder or edit it freely: each daily run takes the first item that has no folder yet.
 
